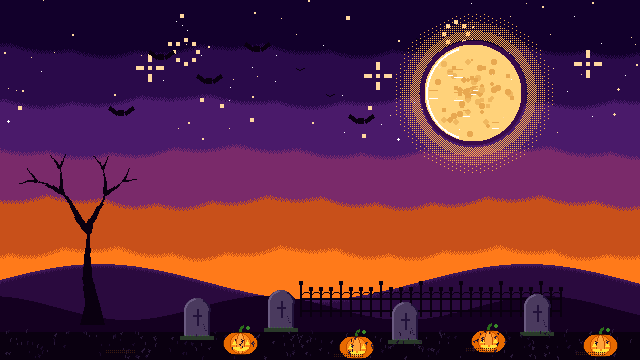
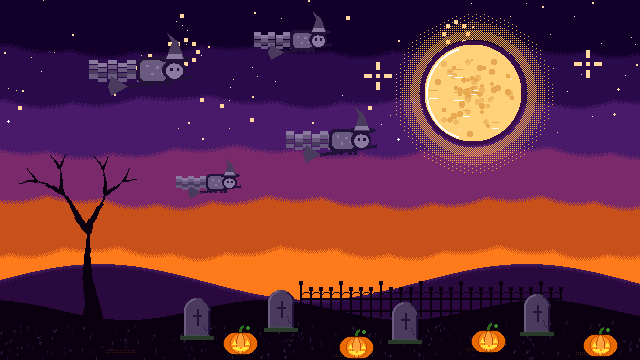
Abóbora: Nyan Cats bruxa no lugar dos morcegos, lápides na frente da grama
Lápides e abóboras (e as do Zombie) desenhadas depois da grama; o chão passa a
ser o próprio morro da frente, sem a emenda reta no meio da cena. Assets ?v=196.

Claude-Session: https://claude.ai/code/session_019TbC9GU9HayapaDYE4zVwi

diff --git a/index.html b/index.html
@@ -14,7 +14,7 @@
   <link rel="preconnect" href="https://fonts.gstatic.com" crossorigin>
   <link href="https://fonts.googleapis.com/css2?family=Alegreya:wght@500;700;800&family=Figtree:wght@400;500;600;700&display=swap" rel="stylesheet">
   <!-- ?v=N: troque o número a cada versão para o navegador baixar os arquivos novos -->
-  <link rel="stylesheet" href="style.css?v=195">
+  <link rel="stylesheet" href="style.css?v=196">
 </head>
 <body>
   <!-- Desenhos reutilizados (espiral da marca e do fundo do início) -->
@@ -1131,10 +1131,10 @@
 
   <div class="toast" id="toast" role="status" aria-live="polite"></div>
 
-  <script src="pericias.js?v=195"></script>
-  <script src="regras.js?v=195"></script>
-  <script src="items.js?v=195"></script>
-  <script src="pixelart.js?v=195"></script>
-  <script src="app.js?v=195"></script>
+  <script src="pericias.js?v=196"></script>
+  <script src="regras.js?v=196"></script>
+  <script src="items.js?v=196"></script>
+  <script src="pixelart.js?v=196"></script>
+  <script src="app.js?v=196"></script>
 </body>
 </html>

diff --git a/tools/nyan-cenarios.py b/tools/nyan-cenarios.py
@@ -449,6 +449,34 @@ def gate(d, x0, x1, y, c):
         d.raw.rectangle([X0, yy, X1 + 1, yy + 1], fill=c)
 
 
+def witchcat(d, X, Y, s=1.0, cols=('#22123a', '#4a3a5e', '#6a5a80', '#8a7aa0')):
+    """Nyan Cat bruxa em silhueta cinza: chapéu pontudo, vassoura e rastro em faixas (grade fina, olhando para a direita)."""
+    line, dark, mid, light = cols
+    def P(x, y):
+        return (X + x * s, Y + y * s)
+    def box(x0, y0, x1, y1):
+        return [X + x0 * s, Y + y0 * s, X + x1 * s, Y + y1 * s]
+    for k, c in enumerate((light, mid, dark, mid)):  # rastro ondulado atrás do gato
+        for i in range(6):
+            yy = -6 + k * 3 + (2 if i % 2 else 0)
+            d.raw.rectangle(box(-38 + i * 6, yy, -33 + i * 6, yy + 2), fill=c)
+    d.raw.line([P(-14, 10), P(26, 4)], fill=line, width=max(2, int(3 * s)))  # cabo da vassoura
+    d.raw.polygon([P(-14, 10), P(-24, 4), P(-26, 10), P(-24, 16)], fill=dark)  # palha
+    d.raw.rounded_rectangle(box(-8, -8, 12, 8), radius=4 * s, fill=line)  # corpo (o biscoito)
+    d.raw.rounded_rectangle(box(-6, -6, 10, 6), radius=3 * s, fill=mid)
+    for dx, dy in ((-2, -3), (4, -2), (1, 2), (7, 1)):
+        d.raw.rectangle(box(dx, dy, dx + 1, dy + 1), fill=light)
+    for lx in (-5, 0, 6, 10):  # patinhas
+        d.raw.rectangle(box(lx, 8, lx + 2, 10), fill=line)
+    d.raw.ellipse(box(8, -6, 22, 6), fill=line)  # cabeça
+    d.raw.ellipse(box(10, -4, 20, 5), fill=light)
+    d.raw.polygon([P(10, -3), P(11, -9), P(14, -4)], fill=line); d.raw.polygon([P(16, -4), P(19, -9), P(20, -3)], fill=line)
+    d.raw.rectangle(box(13, -1, 14, 0), fill=line); d.raw.rectangle(box(17, -1, 18, 0), fill=line)  # olhos
+    d.raw.ellipse(box(6, -9, 25, -5), fill=line)  # aba do chapéu
+    d.raw.polygon([P(10, -7), P(21, -7), P(17, -18), P(11, -23), P(14, -17)], fill=dark)  # cone com a ponta caída para trás
+    d.raw.polygon([P(10.5, -7.5), P(20.5, -7.5), P(19.5, -10), P(11.5, -10)], fill=light)  # faixa do chapéu
+
+
 def bat(d, x, y, c='#0a0010'):
     d.rectangle([x - 1, y - 1, x + 1, y + 1], fill=c)
     d.line([(x - 6, y - 3), (x - 2, y)], fill=c, width=2)
@@ -559,17 +587,10 @@ def scene_pumpkin():  # Halloween: lua cheia, morcegos, árvore seca, lápides e
     sky(d, ['#12002b', '#2a0a4a', '#4a1a6a', '#7a2a6a', '#c8501a', '#ff7a1a'], 0, 152, step=10, jag=3, seed=5)
     stars(d, 30, 70, 5, '#ffd8a0')
     moon(d, 236, 46, 24, '#ffd27a', ('#f0b860', '#e8a850'), '#3a0a4a', 5)
-    for x, y in ((80, 28), (104, 40), (128, 24), (180, 60), (60, 56)):
-        bat(d, x, y)
     hills(d, 150, 18, 34, 4, '#2a0a3e', '#3e1656')  # morros de trás, mais claros
-    hills(d, 160, 12, 22, 40, '#140020')
-    d.rectangle([0, 166, W, H], fill='#0a0010')
+    hills(d, 160, 10, 22, 40, '#0a0010')  # o chão é o próprio morro da frente: sem emenda reta no meio da cena
     gnarl(d, 46, 162, '#0a0010')
     gate(d, 150, 280, 158, '#0a0010')
-    for x, y in ((92, 168), (134, 164), (196, 170), (262, 166)):
-        tomb(d, x, y, '#4a3a5e', '#22123a', '#6a5a80')
-    for x, y in ((112, 176), (170, 178), (236, 175), (292, 177)):
-        pumpkin(d, x, y)
     return im
 
 
@@ -665,14 +686,8 @@ def scene_zombie():  # cemitério com lua verde, árvore seca e mão saindo da t
     sky(d, ['#020a04', '#04120a', '#081a0e', '#0e2414'], 0, 140, seed=11)
     moon(d, 248, 36, 20, '#b8f0a0', ('#98d880', '#88c870'), '#020a04', 11)
     stars(d, 26, 100, 11, '#9ad09a')
-    hills(d, 136, 12, 30, 0, '#0a1a0a', '#142a14')
-    d.rectangle([0, 140, W, H], fill='#142a14')
+    hills(d, 140, 10, 30, 0, '#142a14', '#1e3a1e')  # o chão é o próprio morro: sem emenda reta
     gnarl(d, 72, 142, '#050a05')
-    for x in (24, 104, 156, 208, 280):
-        tomb(d, x, 160)
-    d.rectangle([120, 164, 128, 172], fill='#6a9a5a')
-    for dx in (0, 3, 6, 8):
-        d.rectangle([120 + dx, 158 + (dx % 4), 121 + dx, 164], fill='#6a9a5a')
     return im
 
 
@@ -907,11 +922,15 @@ def fine_xmas(d):
 def fine_pumpkin(d):
     glow(d, 236, 46, 27, 40, '#ffb04a')
     fine_stars(d, 60, 70, 5, ('#ffd8a0', '#ffffff'))
-    for x, y in ((300, 70), (330, 96), (420, 40)):  # morcegos de longe, finos
-        d.raw.line([(x - 4, y - 2), (x, y)], fill='#0a0010'); d.raw.line([(x, y), (x + 4, y - 2)], fill='#0a0010')
-    blades(d, 166, 180, 220, ['#1a0a2a', '#2a1a3a'], 33)
+    for x, y, s in ((150, 70, 1.6), (300, 40, 1.2), (340, 140, 1.4), (214, 182, 1.0)):  # bruxinhas voando no lugar dos morcegos
+        witchcat(d, x, y, s)
+    blades(d, 162, 180, 220, ['#1a0a2a', '#2a1a3a'], 33)
     for x, y in ((120, 352), (348, 356), (480, 350), (590, 354)):  # brilho alaranjado no chão perto das abóboras
         dither(d, x - 14, y - 2, x + 14, y + 1, '#3a1a10', 1)
+    for x, y in ((92, 168), (134, 164), (196, 170), (262, 166)):  # lápides e abóboras por último, na frente da grama
+        tomb(d, x, y, '#4a3a5e', '#22123a', '#6a5a80')
+    for x, y in ((112, 176), (170, 178), (236, 175), (292, 177)):
+        pumpkin(d, x, y)
 
 
 def fine_pirate(d):
@@ -982,6 +1001,11 @@ def fine_zombie(d):
     glow(d, 248, 36, 23, 34, '#1a3a1a')
     fine_stars(d, 50, 100, 11, ('#9ad09a', '#ffffff'))
     blades(d, 140, 180, 420, ['#1e3a1e', '#2a4a2a', '#0e1e0e'], 39)
+    for x in (24, 104, 156, 208, 280):  # lápides e mão na frente da grama
+        tomb(d, x, 160)
+    d.rectangle([120, 164, 128, 172], fill='#6a9a5a')
+    for dx in (0, 3, 6, 8):
+        d.rectangle([120 + dx, 158 + (dx % 4), 121 + dx, 164], fill='#6a9a5a')
     for y in range(256, 300, 6):  # névoa rasteira pontilhada
         dither(d, 0, y, NW, y, '#2a4a34', 1)
     for dx in (0, 6, 12, 16):  # unhas da mão
